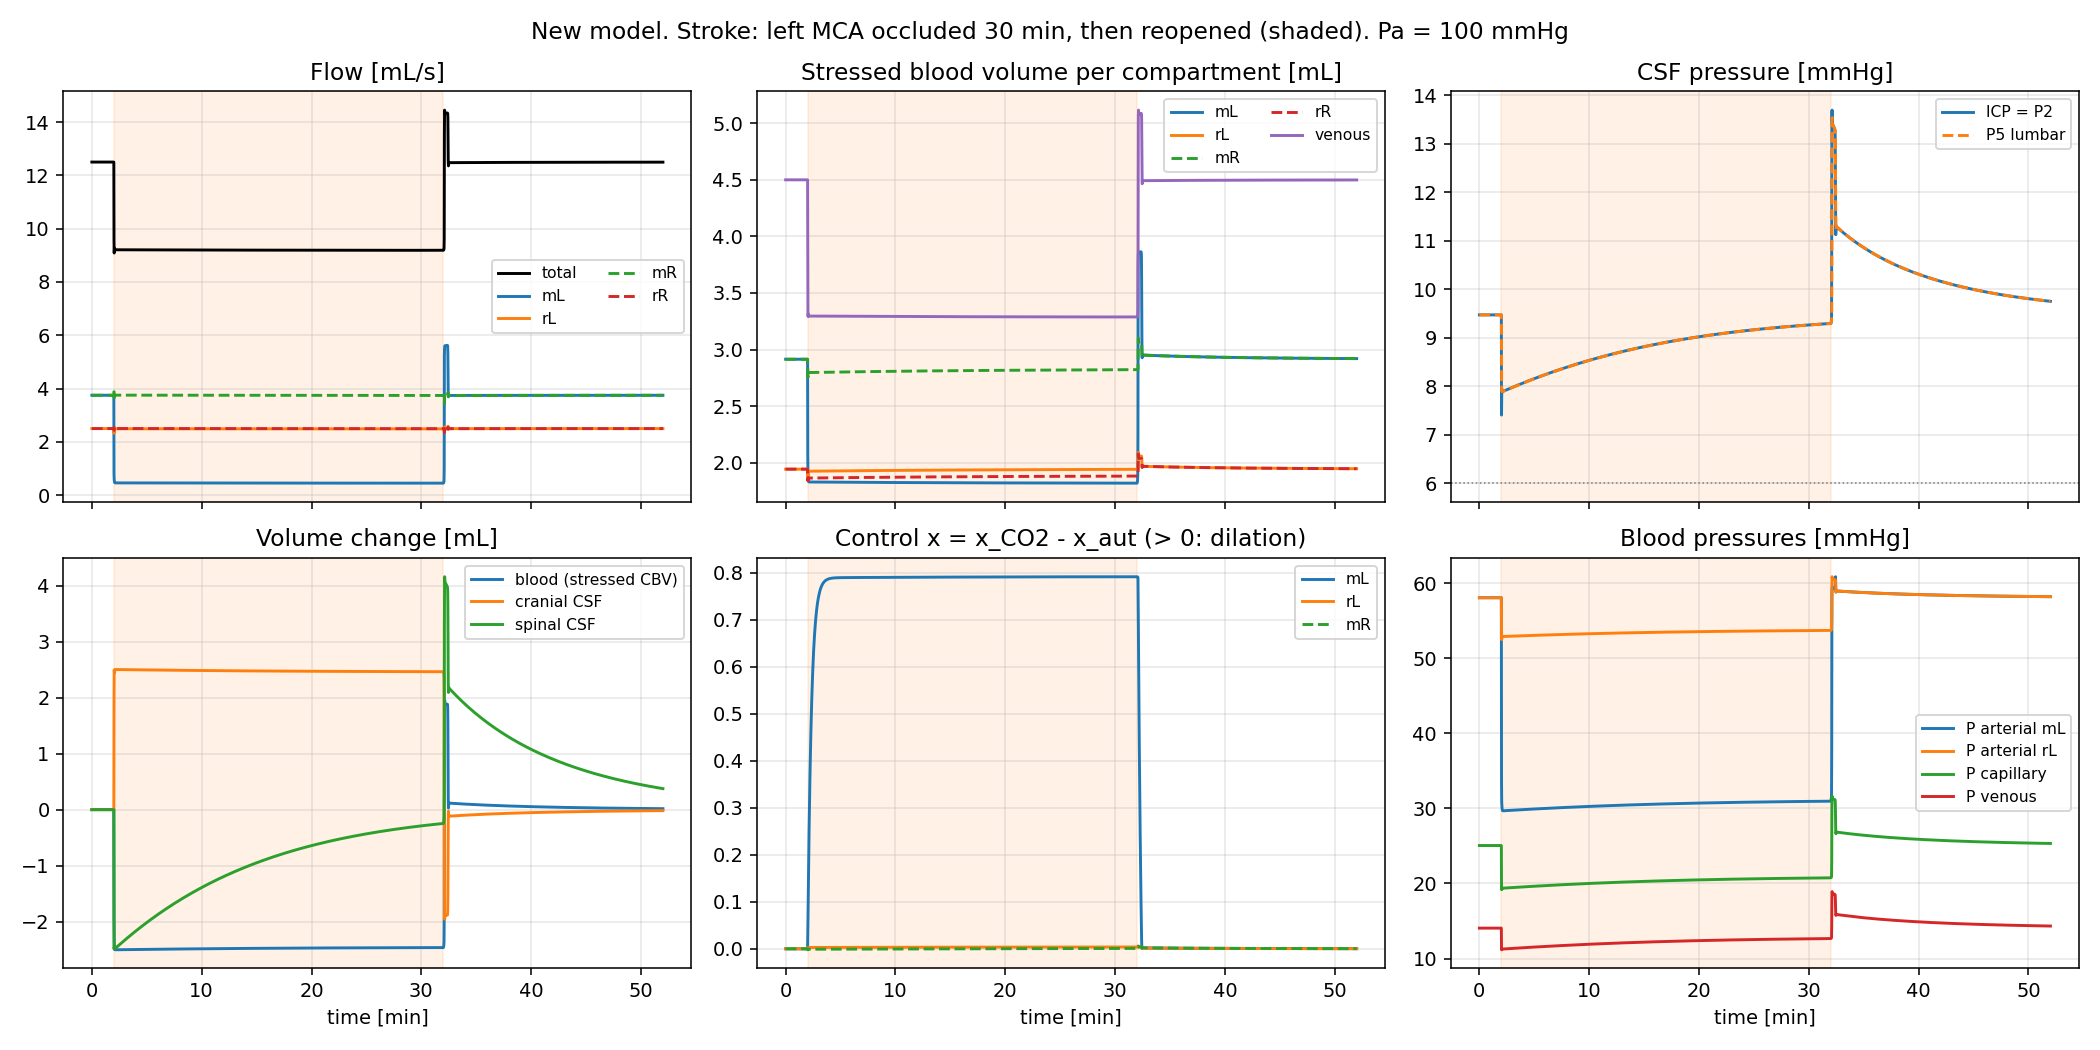
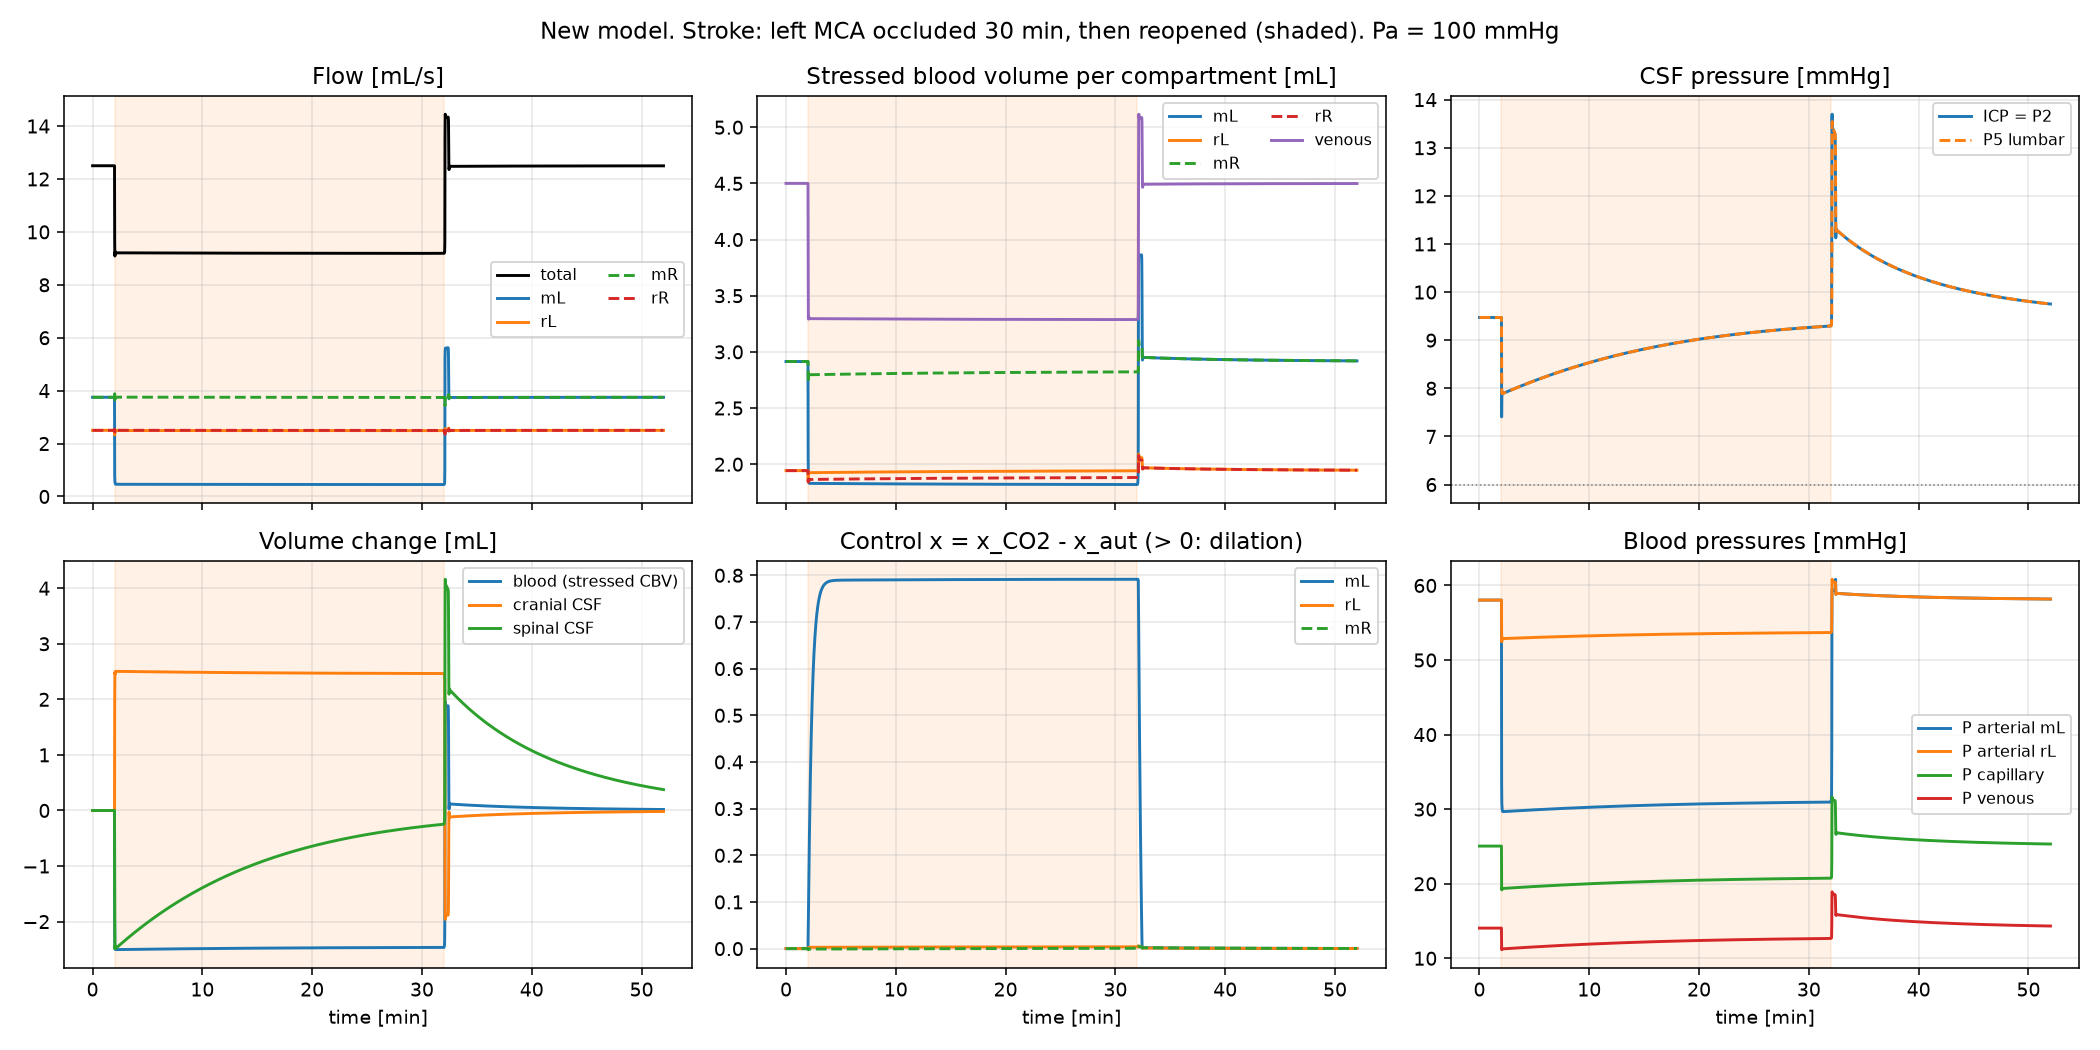
Commit the 16 Nov review of the new model (was uncommitted on new-model)
new_model.py: cross-checks X2c, X3, X4, X5 (spec 7.15), resample_mean() drops
empty bins, report counts informational rows separately (77 pass/fail + 5 info).
The five default figures were regenerated by this code (byte-identical on rerun).

This is the baseline for the refactor: golden outputs are captured from it.

diff --git a/mat_models/new_model.py b/mat_models/new_model.py
@@ -25,7 +25,7 @@ Algebraic unknowns, solved at every call (spec 3.5.6)
 Units: mmHg, mL, s.
 
 Usage (from mat_models/):
-    python new_model.py                 # tests of spec 7.1, 7.3 and cross-checks of 7.8, figures to docs/figures/ (2 min)
+    python new_model.py                 # tests of spec 7.1, 7.3, cross-checks of 7.8 and 7.15, figures to docs/figures/ (2 min)
     python new_model.py --calibrate     # + comparison with Vanek's raw compliances (K1), data-file check (K2) (3 min)
     python new_model.py --sensitivity   # + phi_v sensitivity V1 of spec 7.5                             (about 7 min)
     python new_model.py --params        # + parameter sensitivity SA of spec 7.8                         (about 2 min)
@@ -51,7 +51,9 @@ IS_MCA = np.array([True, False, True, False])
 # Inputs
 # ----------------------------------------------------------------------------------------------------------------------
 class Inputs:
-    """Time-dependent inputs. Every entry is a function of time t [s]."""
+    """Time-dependent inputs. Every entry is a function of time t [s].
+    Note: the model's resting state is computed for its own parameter Pvs_n (6 mmHg). A model built with another
+    Pvs_n must be run with Inputs(Pvs=m.Pvs_n), otherwise it does not start in equilibrium (lit_curve() does this)."""
 
     def __init__(self, Pa=100.0, PaCO2=40.0, Pvs=6.0, PC=2.0, PT=2.0, PL=2.0, infusion=None, occlusion=None):
         self.Pa = self._fn(Pa)            # arterial input pressure (AIF) [mmHg]
@@ -365,7 +367,8 @@ class Report:
         for name, v, lo, hi, unit, res in self.rows:
             print(f"{name:<46}{v:>12.5g}  [{lo:.4g}, {hi:.4g}] {unit:<10}{res}")
         n_fail = sum(1 for r in self.rows if r[5] == "FAIL")
-        print(f"\n{len(self.rows)} checks, {n_fail} failed")
+        n_info = sum(1 for r in self.rows if r[5].startswith("info"))
+        print(f"\n{len(self.rows) - n_info} pass/fail checks, {n_fail} failed; {n_info} informational")
         return n_fail
 
 
@@ -537,18 +540,19 @@ def test_cross_stroke(rep, r):
     return urs, new
 
 
-def vanek_lit(rate, t_on=300.0, dur=600.0):
-    """Lumbar infusion in the existing Vanek code with constant boundary pressures (that file is not modified)."""
+def vanek_lit(rate, t_on=300.0, dur=600.0, Pb=10.0):
+    """Lumbar infusion in the existing Vanek code with constant boundary pressures (that file is not modified).
+    rise = ICP rise at the end of the infusion, rise5 = after 300 s of infusion (needs dur >= 300)."""
     from vanek_2015_model import Vanek2015Model
     v = Vanek2015Model()
-    const = {k: (lambda t, c=c: c) for k, c in dict(Pa=80.0, Pb=10.0, PC=2.0, PT=2.0, PL=2.0).items()}
+    const = {k: (lambda t, c=c: c) for k, c in dict(Pa=80.0, Pb=Pb, PC=2.0, PT=2.0, PL=2.0).items()}
     P0 = np.array([11.0, 10.0, 10.0, 10.0, 10.0])
     inf = lambda t: np.array([0.0, 0.0, 0.0, 0.0, rate if t >= t_on else 0.0])
     a = solve_ivp(lambda t, P: v.derivatives(t, P, const, infusion_rates=inf(t)), (0.0, t_on + dur), P0, method="Radau",
-                  t_eval=[t_on - 1.0, t_on + dur], max_step=5.0, rtol=1e-7, atol=1e-9)
+                  t_eval=[t_on - 1.0, t_on + 300.0, t_on + dur], max_step=5.0, rtol=1e-7, atol=1e-9)
     b = solve_ivp(lambda t, P: v.derivatives(t, P, const, infusion_rates=np.array([0, 0, 0, 0, rate])), (0.0, 8000.0), P0,
                   method="Radau", t_eval=[8000.0], max_step=50.0, rtol=1e-7, atol=1e-9)
-    return dict(rest=a.y[1, 0], rise=a.y[1, 1] - a.y[1, 0], plateau=b.y[1, -1])
+    return dict(rest=a.y[1, 0], rise5=a.y[1, 1] - a.y[1, 0], rise=a.y[1, 2] - a.y[1, 0], plateau=b.y[1, -1])
 
 
 def test_cross_lit(rep, r):
@@ -560,6 +564,62 @@ def test_cross_lit(rep, r):
     rep.check("X2b ICP rise after 10 min, new / Vanek code", rise_new / van["rise"], 0.5, 1.5, "ratio")
     van["rise_new"] = rise_new
     return van
+
+
+def test_cross_more(rep, m, r_co2, r_lit, r_ica, van):
+    """X3, X4, X2c, X5 (spec 7.15): further comparisons with the source codes, added in the review of 16 Nov.
+    r_co2 = 5 % CO2 run, r_lit = LIT run, r_ica = ICA run, van = result of test_cross_lit. X5 is informational:
+    it records a known disagreement (the lumped circle has no basilar inlet, spec 3.2.2)."""
+    from ursino_2010_model import Ursino2010Model
+    u = Ursino2010Model()
+    end = lambda y0, T, **kw: solve_ivp(lambda t, y: u.derivatives(t, y, **kw), (0.0, T), y0, method="Radau",
+                                        rtol=1e-7, atol=1e-9).y[:, -1]
+    y_rest = end(u.get_initial_state(), 600.0)
+    q0, V0 = ursino_districts(u, y_rest)
+
+    def urs(T, **kw):
+        """Ursino code after T s with the given inputs: district flows, total CBF change, arterial volume change."""
+        q, V = ursino_districts(u, end(y_rest, T, **kw))
+        return q, q.sum() / q0.sum() - 1, V.sum() - V0.sum()
+
+    out = {}
+    # X3: graded CO2 range (T5g compares at 60 mmHg, where the response is saturated)
+    _, dq_u, dV_u = urs(600.0, PaCO2=47.5)
+    i0, i1, _ = r_co2["marks"]
+    dq_n, dV_n = r_co2["CBF"][i1] / r_co2["CBF"][i0] - 1, r_co2["Va_total"][i1] - r_co2["Va_total"][i0]
+    rep.check("X3a 5 % CO2: total CBF rise, new - Ursino", dq_n - dq_u, -0.03, 0.03, "rel")
+    rep.check("X3b 5 % CO2: arterial volume change, new / Ursino", dV_n / dV_u, 0.85, 1.15, "ratio")
+    out["co2"] = (dq_n, dq_u, dV_n, dV_u)
+
+    # X4: autoregulation, Pa 100 -> 80 mmHg held 600 s
+    _, dq_u, dV_u = urs(600.0, Pa=80.0)
+    r = m.simulate(Inputs(Pa=lambda t: ramp(t, [(0, 100), (1, 80)])), 600.0, t_eval=[0.0, 600.0], max_step=2.0)
+    dq_n, dV_n = r["CBF"][1] / r["CBF"][0] - 1, r["Va_total"][1] - r["Va_total"][0]
+    rep.check("X4a Pa 100 -> 80: total CBF change, new - Ursino", dq_n - dq_u, -0.03, 0.03, "rel")
+    rep.check("X4b Pa 100 -> 80: arterial volume change, new / Ursino", dV_n / dV_u, 0.85, 1.15, "ratio")
+    out["pa"] = (dq_n, dq_u, dV_n, dV_u)
+
+    # X2c: LIT half-way up the curve (X2b compares at 10 min, where both models are close to the same plateau)
+    j0 = r_lit["marks"][0]
+    j5 = np.searchsorted(r_lit["t"], r_lit["span"][0] + 300.0)
+    rise5 = r_lit["ICP"][j5] - r_lit["ICP"][j0]
+    van12 = vanek_lit(1.5 / 60.0, Pb=12.0)
+    rep.check("X2c ICP rise after 5 min, new / Vanek code", rise5 / van["rise5"], 0.75, 1.25, "ratio")
+    rep.info("X2c same, Vanek code with Pb = 12", rise5 / van12["rise5"], 0.75, 1.25, "ratio")
+    out["lit"] = (rise5, van["rise5"], van12["rise5"])
+
+    # X5 (info): left ICA occlusion. Ursino's order of districts: ml, al, pl, mr, ar, pr; his "rest_L" = al + pl
+    q1, dq_u, dV_u = urs(1800.0, ica_stenosis_l=1000.0)
+    k0, k1, _ = r_ica["marks"]
+    dq_n, dV_n = r_ica["CBF"][k1] / r_ica["CBF"][k0] - 1, r_ica["Va_total"][k1] - r_ica["Va_total"][k0]
+    rest_u = (q1[1] + q1[2]) / (q0[1] + q0[2]) - 1
+    rest_n = r_ica["q_k"][k1, 1] / r_ica["q_k"][k0, 1] - 1
+    rep.info("X5a ICA occlusion: total CBF change, new - Ursino", dq_n - dq_u, -0.10, 0.10, "rel")
+    rep.info("X5b ICA occlusion: rest_L flow change, new - Ursino", rest_n - rest_u, -0.10, 0.10, "rel")
+    out["ica"] = dict(dq=(dq_n, dq_u), dV=(dV_n, dV_u), rest=(rest_n, rest_u),
+                      mca=(r_ica["q_k"][k1, 0] / r_ica["q_k"][k0, 0] - 1, q1[0] / q0[0] - 1),
+                      urs_districts=q1[:3] / q0[:3] - 1)
+    return out
 
 
 def test_ica(rep, m):
@@ -821,11 +881,18 @@ def fit_lit(t, p, proto, theta0=LIT_DEFAULT):
 
 
 def resample_mean(t, p, dt=2.0):
-    """Average a densely sampled recording into dt-second bins (the fit needs about one point per 2 s)."""
+    """Average a recording into dt-second bins (the fit needs about one point per 2 s).
+    Bins without a sample (gaps, or sampling slower than dt) and non-finite samples are dropped; they must not enter
+    the fit as zeros. Each bin is placed at the mean time of its samples."""
+    t, p = np.asarray(t, float), np.asarray(p, float)
+    ok = np.isfinite(t) & np.isfinite(p)
+    t, p = t[ok], p[ok]
     idx = np.floor((t - t[0]) / dt).astype(int)
     n = idx.max() + 1
     cnt = np.bincount(idx, minlength=n)
-    return t[0] + dt * (np.arange(n) + 0.5), np.bincount(idx, weights=p, minlength=n) / np.maximum(cnt, 1)
+    keep = cnt > 0
+    return (np.bincount(idx, weights=t, minlength=n)[keep] / cnt[keep],
+            np.bincount(idx, weights=p, minlength=n)[keep] / cnt[keep])
 
 
 def load_lit_csv(path):
@@ -964,6 +1031,9 @@ def main(argv=()):
     urs, new = test_cross_stroke(rep, runs["Stroke: left MCA occluded 30 min, then reopened"][0])
     van = test_cross_lit(rep, runs["Lumbar infusion test, 1.5 mL/min for 10 min"][0])
     runs["Left ICA occluded 30 min, then reopened"] = (test_ica(rep, m), "new_model_ica.png")
+    # sixth step (spec 7.15): further cross-checks against the source codes
+    more = test_cross_more(rep, m, runs["5 % CO2 (PaCO2 47.5 mmHg)"][0], runs["Lumbar infusion test, 1.5 mL/min for 10 min"][0],
+                           runs["Left ICA occluded 30 min, then reopened"][0], van)
     # fifth step (spec 7.10): new outputs
     test_outputs(rep, r_rest, runs["5 % CO2 (PaCO2 47.5 mmHg)"][0], runs["Stroke: left MCA occluded 30 min, then reopened"][0])
     n_fail = rep.show()
@@ -977,6 +1047,19 @@ def main(argv=()):
     lit = runs["Lumbar infusion test, 1.5 mL/min for 10 min"][0]
     print(f"plateau ICP:              new {lit['plateau_sim']:.2f}, Vanek code {van['plateau']:.2f} mmHg")
     print(f"ICP rise after 10 min:    new {van['rise_new']:.2f}, Vanek code {van['rise']:.2f} mmHg (Vanek rest {van['rest']:.2f})")
+    print(f"ICP rise after 5 min:     new {more['lit'][0]:.2f}, Vanek code {more['lit'][1]:.2f} mmHg (Pb = 10), {more['lit'][2]:.2f} mmHg (Pb = 12)")
+    print("\n=== X3, X4: graded CO2 range and autoregulation, new model vs existing Ursino code (spec 7.15) ===")
+    for name, key in (("5 % CO2 (47.5 mmHg)", "co2"), ("Pa 100 -> 80 mmHg", "pa")):
+        dq_n, dq_u, dV_n, dV_u = more[key]
+        print(f"{name:<20} total CBF: new {100 * dq_n:+.1f} %, Ursino code {100 * dq_u:+.1f} %;   "
+              f"arterial stressed volume: new {dV_n:+.2f} mL, Ursino code {dV_u:+.2f} mL")
+    ica = more["ica"]
+    print("\n=== X5 (info): left ICA occlusion, new model vs existing Ursino code. NOT validated: no basilar inlet (spec 3.2.2) ===")
+    print(f"MCA_L flow:                new {100 * ica['mca'][0]:+.1f} %, Ursino code {100 * ica['mca'][1]:+.1f} %")
+    print(f"rest_L flow:               new {100 * ica['rest'][0]:+.1f} %, Ursino code {100 * ica['rest'][1]:+.1f} % "
+          f"(his ACA_L {100 * ica['urs_districts'][1]:+.1f} %, PCA_L {100 * ica['urs_districts'][2]:+.1f} %)")
+    print(f"total CBF:                 new {100 * ica['dq'][0]:+.1f} %, Ursino code {100 * ica['dq'][1]:+.1f} %")
+    print(f"arterial stressed volume:  new {ica['dV'][0]:+.2f} mL, Ursino code {ica['dV'][1]:+.2f} mL")
 
     fig_dir = os.path.normpath(os.path.join(os.path.dirname(os.path.abspath(__file__)), "..", "docs", "figures"))
     os.makedirs(fig_dir, exist_ok=True)
